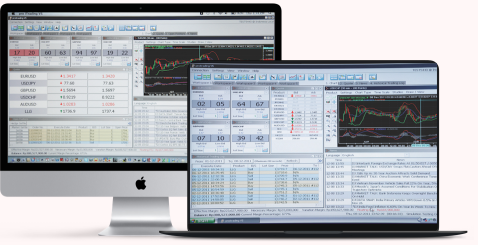
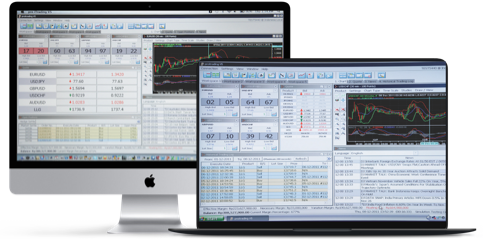
new assets, up newspage

diff --git a/src/components/Navbars/ColoredNavbar.jsx b/src/components/Navbars/ColoredNavbar.jsx
@@ -199,7 +199,17 @@ class ColorNavbar extends React.Component {
                 </NavItem>
 
                 <div class="dropdown" style={stylesAnimation.slideInDown}>
-                  <button class="dropbtn" style={colorStyle}>
+                  <button
+                    class="dropbtn"
+                    style={{
+                      color: this.coloringNav(
+                        "/tentangkami" ||
+                          "/cabang" ||
+                          "/rekeningterpisah" ||
+                          "/legalitas"
+                      )
+                    }}
+                  >
                     Tentang Kami
                   </button>
                   <div class="dropdown-content">
@@ -226,7 +236,23 @@ class ColorNavbar extends React.Component {
                 </div>
 
                 <div class="dropdown ">
-                  <button class="dropbtn" style={colorStyle}>
+                  <button
+                    class="dropbtn"
+                    style={{
+                      color: this.coloringNav(
+                        "/forex" ||
+                          "/gold" ||
+                          "/indexfutures" ||
+                          "/cfd" ||
+                          "/komoditi" ||
+                          "/jamperdagangan" ||
+                          "/protrader" ||
+                          "/topgrowthtrader" ||
+                          "/login" ||
+                          "/register"
+                      )
+                    }}
+                  >
                     Trading Online
                   </button>
                   <div class="dropdown-content-trading trading-online">

diff --git a/src/components/NewsContent/NewsMarketOutlook.jsx b/src/components/NewsContent/NewsMarketOutlook.jsx
@@ -84,7 +84,7 @@ class NewsMarketOutlook extends React.Component {
             // style={{ backgroundColor: "#1D1E1F" }}
             // style={{ backgroundColor: "#D4D4D4" }}
           >
-            <ColoredNavbar />
+            <ColoredNavbar location={{ ...this.props.location }} />
             <div className="space-50" />
             {/* <div className="page-header"> */}
             <div className="content-center">

diff --git a/src/components/Landing/Legality.jsx b/src/components/Landing/Legality.jsx
@@ -99,7 +99,7 @@ class Projects extends React.Component {
             // style={{ backgroundColor: "#D4D4D4" }}
           >
             <DarkNavbar />
-            <Container style={{ height: "70vh" }}>
+            <Container style={{ height: "75vh" }}>
               <Row>
                 <Col className="ml-auto mr-auto text-center" lg="8">
                   <h2 className="title font-black">Legalitas</h2>

diff --git a/src/views/layout/NewsPage.jsx b/src/views/layout/NewsPage.jsx
@@ -66,7 +66,7 @@ class NewsPage extends React.Component {
       <>
         <div style={{ backgroundColor: "#1D1E1F" }}>
           <BlurryNavbar />
-          <ColoredNavbar location={{ ...this.props.location }}/>
+          <ColoredNavbar location={{ ...this.props.location }} />
           <div className="space-50" />
           <Nav
             className="nav-pills-info nav-pills-icons nav-pills-lg"

diff --git a/src/components/Landing/Feature.jsx b/src/components/Landing/Feature.jsx
@@ -21,7 +21,7 @@ import { Badge, Button, Container, Row, Col } from "reactstrap";
 import ScrollAnimation from "react-animate-on-scroll";
 
 import laptop from "../../assets/img/macbook.png";
-import feature from "../../assets/img/feature-img.png";
+import feature from "../../assets/img/all-device.png";
 
 import "../../assets/css/main.css";
 

diff --git a/src/views/layout/ForexGold.jsx b/src/views/layout/ForexGold.jsx
@@ -13,7 +13,7 @@ class ForexGold extends React.Component {
       <>
         {/* <Navbar /> */}
         {/* <div id="navbar" className="ml-auto" style={{ position: "fixed" }}> */}
-        <ColoredNavbar />
+        <ColoredNavbar location={{ ...this.props.location }} />
         {/* </div> */}
         <Content />
         <Footer />
